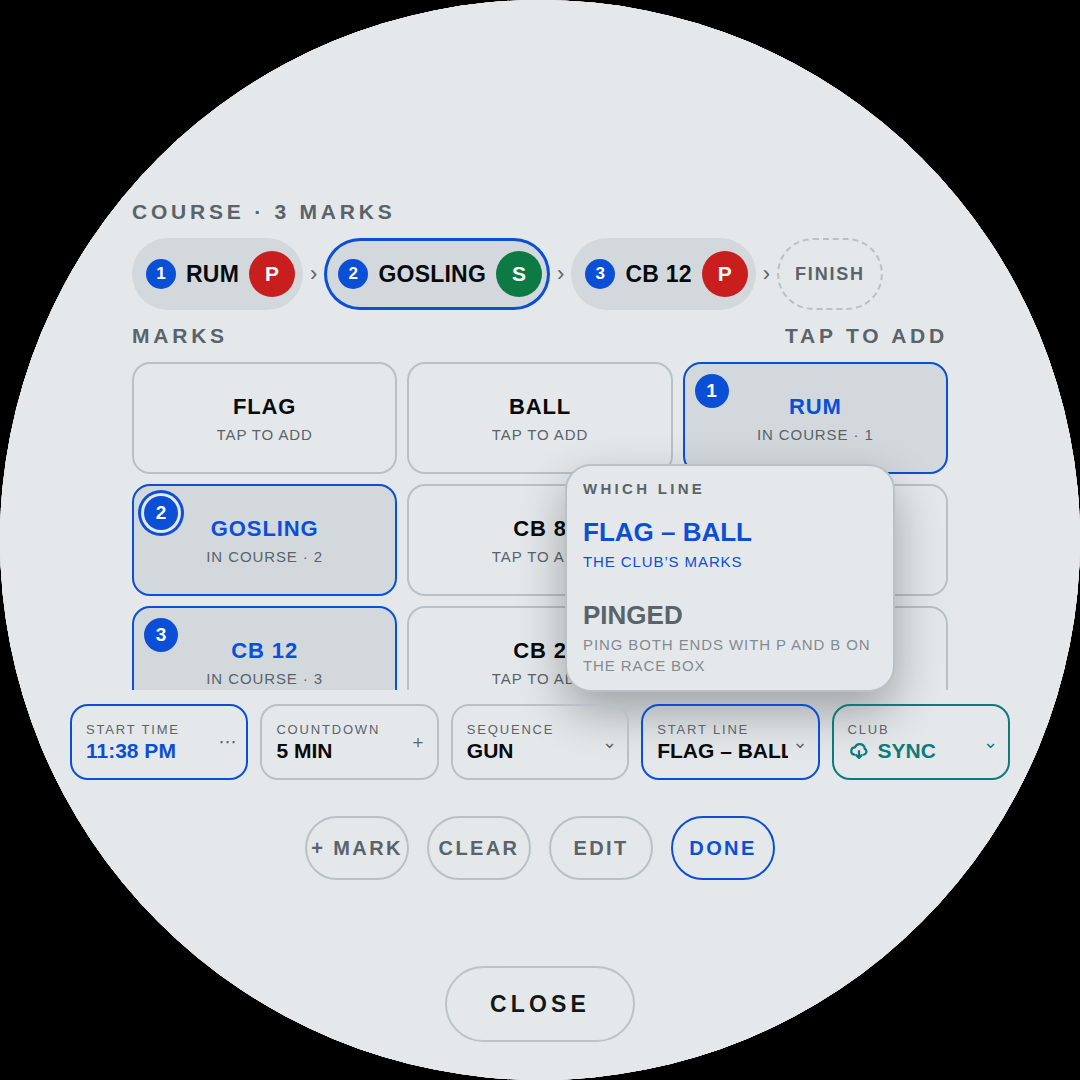
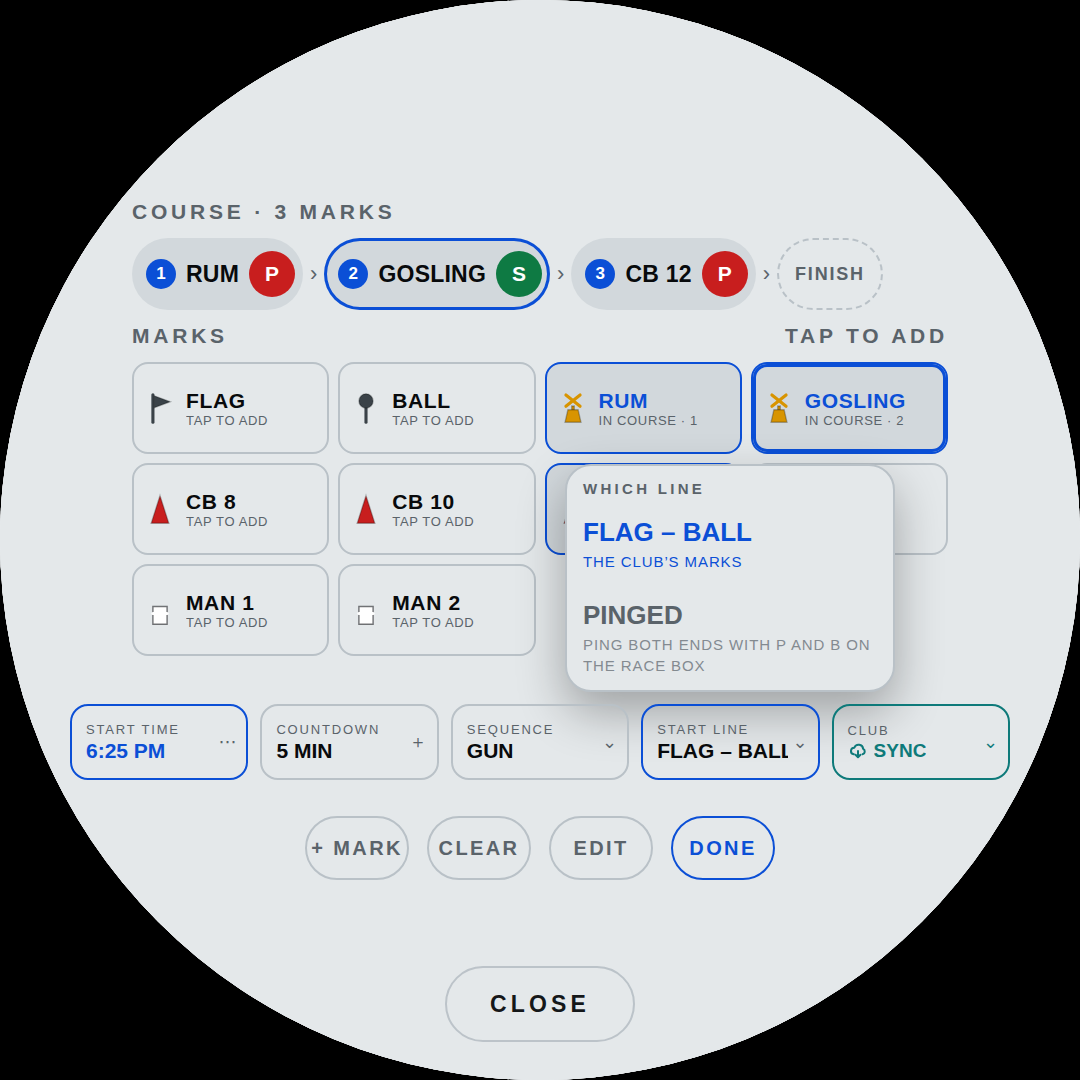
The marks are drawn as the buoys they are
A tile said RUM, and nothing about it said which of the things out there
RUM is. It is drawn now, as it looks on the water:

  yellow special with an X topmark   RUM, GOSLING - the club's own
                                     inflatables, marks of the COURSE,
                                     which is what the X says
  red nun                            CB 2, 8, 10, 12 - the channel
  white regulatory can               MAN 1, MAN 2 - the manatee zone
  a flag, and a ball on a staff      FLAG and BALL, which are what the
                                     Romance flag and its sail ball are
  the accent                         a mark of your own: no club drawing
                                     to copy

On the night theme all of them are the same red, as everything there is.
The shapes still tell them apart, which is what tells them apart out on
the water in the dark anyway.

The drawing says in a glance what a line of type was spelling out, so
the tiles are smaller: 92 tall and four across rather than 112 and
three, carrying the buoy, the short name and where it stands in the
course, and nothing else - the number badge went with them, since IN
COURSE 2 already says it. The ten club marks now fit without scrolling.
EDIT goes to three across, because there it swaps the course line for
the position, which is a long number, and adds the bin and the grip.

Also: the CLUB readout's value was running under its chevron at
[…]

diff --git a/confluence_helm.html b/confluence_helm.html
@@ -61,6 +61,9 @@ body{                                   /* DAY - built to beat sun   */
      buttons do, and it is the only tap here that can replace a course
      you are already sailing. */
   --club:#0E7A7A;
+  /* The marks as they are on the water. The yellow is knocked down from
+     a buoy's own yellow, which on a light panel in sun is a smear. */
+  --buoy-y:#D89400; --buoy-r:#C81E1E; --buoy-w:#FFFFFF;
   --w-huge:600; --w-val:600; --w-lbl:600;
 }
 body.dusk{
@@ -69,6 +72,7 @@ body.dusk{
   --warn:#FFB020; --alarm:#FF3B30; --panel:#15181B; --chip:#22272B;
   --port-g1:#C81E1E; --port-g2:#FF4D4D; --stbd-g1:#0E7A43; --stbd-g2:#24D17E;
   --club:#19A8A8;                       /* lifted off a dark panel     */
+  --buoy-y:#F5B72E; --buoy-r:#FF4D4D; --buoy-w:#E6EAEE;
   --w-huge:300; --w-val:300; --w-lbl:500;
 }
 body.night{
@@ -81,8 +85,11 @@ body.night{
      a fact the box states in words two lines below it. */
   --port-g1:#7A201C; --port-g2:#C8342E; --stbd-g1:#7A201C; --stbd-g2:#C8342E;
   /* And the club's colour is red too here, for the same reason - it goes
-     to an outline at night rather than a lit block. */
+     to an outline at night rather than a lit block. A yellow special and
+     a red nun are the same red at 2 a.m.; their SHAPES still differ,
+     which is what a buoy is told apart by in the dark anyway. */
   --club:#C8342E;
+  --buoy-y:#C8342E; --buoy-r:#C8342E; --buoy-w:#8A2723;
   --w-huge:300; --w-val:300; --w-lbl:500;
 }
 
@@ -916,39 +923,60 @@ text{font-variant-numeric:tabular-nums;dominant-baseline:middle}
 .cv-chip.ghost i{background:var(--club)}
 .cv-empty{font-size:20px;letter-spacing:.12em;color:var(--label)}
 .cv-arrow{color:var(--label);font-size:22px}
-/* The marks. 112 tall for the same reason the start pad's keys are: 45 px
-   on a 430 px phone, and 44 is the least a thumb should be asked to hit.
-   This is the one part of the view that scrolls. */
-.cv-grid{display:grid;grid-template-columns:repeat(3,1fr);gap:10px;width:100%;
+/* The marks: what the buoy looks like, what it is called, and where it
+   stands in the course. Four across and 92 tall - smaller than they
+   were, because a drawing of the buoy says in a glance what a line of
+   type was spelling out, and ten marks then fit without scrolling.
+   Edit mode goes to three across: it swaps the course line for the
+   position, which is a long number, and adds two controls. */
+.cv-grid{display:grid;grid-template-columns:repeat(4,1fr);gap:9px;width:100%;
   flex:1 1 auto;min-height:0;align-content:start;
   overflow-y:auto;overscroll-behavior:contain}
-.cv-tile{position:relative;height:112px;border-radius:18px;overflow:hidden;
+.cv-grid.edit{grid-template-columns:repeat(3,1fr)}
+.cv-tile{position:relative;height:92px;border-radius:16px;overflow:hidden;
   border:2px solid var(--hairline);background:none;font-family:var(--font);
-  display:flex;flex-direction:column;align-items:center;justify-content:center;gap:6px}
-.cv-tile b{font-size:22px;font-weight:600;letter-spacing:.04em;color:var(--ink)}
-.cv-tile s{text-decoration:none;font-size:15px;letter-spacing:.06em;color:var(--label);
-  max-width:100%;overflow:hidden;text-overflow:ellipsis;white-space:nowrap}
+  display:flex;align-items:center;gap:9px;padding:0 9px;text-align:left}
+.cv-tile .tx{min-width:0;flex:1}
+.cv-tile b{display:block;font-size:21px;font-weight:600;letter-spacing:.03em;
+  color:var(--ink);white-space:nowrap;overflow:hidden;text-overflow:ellipsis}
+.cv-tile s{display:block;text-decoration:none;font-size:13px;letter-spacing:.05em;
+  color:var(--label);white-space:nowrap;overflow:hidden;text-overflow:ellipsis}
 .cv-tile.in{border-color:var(--accent);background:var(--chip)}
 .cv-tile.in b{color:var(--accent)}
+/* The one being sailed to, ringed the way its chip in the strip is. */
+.cv-tile.next{box-shadow:inset 0 0 0 3px var(--accent)}
 /* A corrected mark says so in the accent: you are no longer looking at
    what the sailing instructions printed. */
 .cv-tile s.moved{color:var(--accent)}
-.cv-tile .seq{position:absolute;left:10px;top:10px;width:34px;height:34px;
-  border-radius:17px;background:var(--accent);color:#fff;font-size:19px;
-  font-weight:600;display:flex;align-items:center;justify-content:center}
-.cv-tile.next .seq{box-shadow:0 0 0 3px var(--panel),0 0 0 6px var(--accent)}
 /* edit mode: a bin on a mark of your own, a way back to the book on a
-   club mark you have corrected, and a band along the bottom to drag the
+   club mark you have corrected, and a band down the right to drag the
    tile by - which reorders the LIST, not the course. */
-.cv-tile .del{position:absolute;right:8px;top:8px;width:44px;height:44px;
-  border-radius:22px;border:2px solid var(--alarm);color:var(--alarm);font-size:20px;
+.cv-tile .del{flex:none;width:40px;height:40px;border-radius:20px;
+  border:2px solid var(--alarm);color:var(--alarm);font-size:18px;
   display:flex;align-items:center;justify-content:center}
-.cv-tile .del.undo{border-color:var(--accent);color:var(--accent);font-size:26px}
-.cv-tile .grip{position:absolute;left:0;right:0;bottom:0;height:28px;
-  display:flex;align-items:center;justify-content:center;font-size:24px;
+.cv-tile .del.undo{border-color:var(--accent);color:var(--accent);font-size:24px}
+.cv-tile .grip{flex:none;width:26px;align-self:stretch;margin-right:-9px;
+  display:flex;align-items:center;justify-content:center;font-size:22px;
   color:var(--label)}
-.cv-tile.edit{padding-bottom:22px}
 .cv-tile.lift{opacity:.45}
+/* ---- the buoys ----
+   Drawn as they are on the water, because that is how they are found:
+   the club's own marks are yellow specials with an X topmark, the
+   channel is red, the manatee zone's regulatory cans are white, and the
+   line's two ends are the Romance flag and its sail ball. At night they
+   are all the same red - that is the theme's whole point - and the
+   SHAPES still tell them apart, which is what tells them apart out
+   there in the dark anyway. */
+.bu{width:34px;height:34px;flex:none}
+.bu .bd{stroke:var(--ink);stroke-opacity:.28;stroke-width:1}
+.bu .ln{fill:none;stroke-width:2.2;stroke-linecap:round}
+/* White on a light panel is nothing without an edge. */
+.bu.w .bd{stroke-opacity:.55}
+.bu.y .bd{fill:var(--buoy-y)} .bu.y .ln{stroke:var(--buoy-y)}
+.bu.r .bd{fill:var(--buoy-r)} .bu.r .ln{stroke:var(--buoy-r)}
+.bu.w .bd{fill:var(--buoy-w)} .bu.w .ln{stroke:var(--buoy-w)}
+.bu.f .bd,.bu.b .bd{fill:var(--ink-dim)} .bu.f .ln,.bu.b .ln{stroke:var(--ink-dim)}
+.bu.o .bd{fill:var(--accent)} .bu.o .ln{stroke:var(--accent)}
 /* ---- the four settings, as readings ----
    Everything about the evening that is not the course itself, on one
    row under the marks, each saying what it is set to now: the sequence,
@@ -990,8 +1018,13 @@ text{font-variant-numeric:tabular-nums;dominant-baseline:middle}
    it is still the only one of them that reaches off the boat. */
 .cvr.club{border-color:var(--club)}
 .cvr.club b,.cvr.club u{color:var(--club)}
-.cvr.club svg{width:22px;height:22px;flex:none;fill:none;stroke:currentColor;
+/* The cloud costs the club's value 28 px that the other four spend on
+   type, so its type gives that back rather than running under the
+   chevron. */
+.cvr.club svg{width:20px;height:20px;flex:none;fill:none;stroke:currentColor;
   stroke-width:2.4;stroke-linecap:round;stroke-linejoin:round}
+.cvr.club b{font-size:19px;gap:6px}
+.cvr.club b span{min-width:0;overflow:hidden;text-overflow:ellipsis}
 /* ---- and the menu three of them open ----
    The same menu as the dial's readings picker, and for the same reasons:
    painted in --panel over a hairline so it reads as something in front,
@@ -3309,17 +3342,23 @@ function windShift(twd, awa){
    Gosling, so these are right to the metre. hdr is the short name a
    32 px cell header can carry; name is what the course sheet shows. */
 const DM=(d,m)=>d+m/60;
+/* `buoy` is what it looks like on the water, and the course sheet draws
+   it: y a yellow special with an X topmark - the club's inflatables,
+   which are marks of the course and not of the channel - r a red
+   channel buoy, w the white regulatory cans of the manatee zone, f the
+   Romance flag and b its sail ball, which are the two ends of the line.
+   A mark of your own gets the accent. */
 const MARKS=[
-  {id:'flag',   name:'ROMANCE FLAG',      hdr:'FLAG',   lat:DM(28,49.123), lon:-DM(81,15.874)},
-  {id:'ball',   name:'ROMANCE SAIL BALL', hdr:'BALL',   lat:DM(28,49.150), lon:-DM(81,15.721)},
-  {id:'rum',    name:'RUM MARK',          hdr:'RUM',    lat:DM(28,50.130), lon:-DM(81,15.840)},
-  {id:'gosling',name:'GOSLING MARK',      hdr:'GOSLING',lat:DM(28,49.800), lon:-DM(81,15.150)},
-  {id:'cb8',    name:'CHANNEL BUOY 8',    hdr:'CB 8',   lat:DM(28,49.881), lon:-DM(81,17.193)},
-  {id:'cb10',   name:'CHANNEL BUOY 10',   hdr:'CB 10',  lat:DM(28,49.501), lon:-DM(81,16.897)},
-  {id:'cb12',   name:'CHANNEL BUOY 12',   hdr:'CB 12',  lat:DM(28,49.284), lon:-DM(81,16.508)},
-  {id:'cb2',    name:'CHANNEL BUOY 2 · EAST', hdr:'CB 2', lat:DM(28,49.004), lon:-DM(81,14.566)},
-  {id:'man1',   name:'MANATEE MARK 1',    hdr:'MAN 1',  lat:DM(28,50.851), lon:-DM(81,14.916)},
-  {id:'man2',   name:'MANATEE MARK 2',    hdr:'MAN 2',  lat:DM(28,51.201), lon:-DM(81,15.212)},
+  {id:'flag',   name:'ROMANCE FLAG',      hdr:'FLAG',   buoy:'f', lat:DM(28,49.123), lon:-DM(81,15.874)},
+  {id:'ball',   name:'ROMANCE SAIL BALL', hdr:'BALL',   buoy:'b', lat:DM(28,49.150), lon:-DM(81,15.721)},
+  {id:'rum',    name:'RUM MARK',          hdr:'RUM',    buoy:'y', lat:DM(28,50.130), lon:-DM(81,15.840)},
+  {id:'gosling',name:'GOSLING MARK',      hdr:'GOSLING',buoy:'y', lat:DM(28,49.800), lon:-DM(81,15.150)},
+  {id:'cb8',    name:'CHANNEL BUOY 8',    hdr:'CB 8',   buoy:'r', lat:DM(28,49.881), lon:-DM(81,17.193)},
+  {id:'cb10',   name:'CHANNEL BUOY 10',   hdr:'CB 10',  buoy:'r', lat:DM(28,49.501), lon:-DM(81,16.897)},
+  {id:'cb12',   name:'CHANNEL BUOY 12',   hdr:'CB 12',  buoy:'r', lat:DM(28,49.284), lon:-DM(81,16.508)},
+  {id:'cb2',    name:'CHANNEL BUOY 2 · EAST', hdr:'CB 2', buoy:'r', lat:DM(28,49.004), lon:-DM(81,14.566)},
+  {id:'man1',   name:'MANATEE MARK 1',    hdr:'MAN 1',  buoy:'w', lat:DM(28,50.851), lon:-DM(81,14.916)},
+  {id:'man2',   name:'MANATEE MARK 2',    hdr:'MAN 2',  buoy:'w', lat:DM(28,51.201), lon:-DM(81,15.212)},
 ];
 const markOf=id=>MARKS.find(m=>m.id===id);
 /* Marks of your own, from the course sheet's NEW MARK: kept in browser
@@ -8602,6 +8641,40 @@ const closeLib=()=>{ hideQR(); $('t-lib').classList.remove('on'); $('t-course').
    not a mark, and the grid scrolls. */
 let courseEdit=false;
 
+/* ---- the buoys -------------------------------------------------------
+   One drawing each, in a 24 box standing on a waterline at y=21, so they
+   line up with each other in a column of tiles. The colour is the
+   theme's - see --buoy-y and its neighbours - and the class on the svg
+   picks it; what is drawn here is the SHAPE, which is what still tells
+   them apart on the night theme where all of them are red.
+
+   .bd is the body, filled. .ln is drawn in outline: a topmark, a staff,
+   a flag's fly. */
+const BUOY={
+  /* A special mark: pillar, X topmark. A mark of the COURSE rather than
+     of the channel, which is exactly what the club's inflatables are,
+     and the X is the shape that says so. */
+  y:'<path class="ln" d="M7 2.8l10 8M17 2.8l-10 8"/>'
+   +'<path class="bd" d="M11.1 10.6h1.8v2.6h-1.8z"/>'
+   +'<path class="bd" d="M8.4 13.2h7.2L17.6 22H6.4z"/>',
+  /* A red nun, the cone the even-numbered side of a channel is. */
+  r:'<path class="bd" d="M12 2.6L18.2 22H5.8z"/>',
+  /* A regulatory can - the white ones round the manatee zone. */
+  w:'<path class="bd" d="M7 9.5h10V22H7z"/>'
+   +'<path class="ln" d="M7 14.5h10"/>',
+  /* The Romance flag, on its staff. */
+  f:'<path class="ln" d="M7 2.6V22"/>'
+   +'<path class="bd" d="M7.9 3.4L19.2 7.6 7.9 11.8z"/>',
+  /* And its sail ball, which is a ball on a staff. */
+  b:'<path class="ln" d="M12 11V22"/>'
+   +'<circle class="bd" cx="12" cy="7" r="5"/>',
+  /* One of your own: no club drawing to copy, so it wears the accent. */
+  o:'<path class="ln" d="M12 4.5v6"/>'
+   +'<path class="bd" d="M8.2 10.8h7.6L17.6 22H6.4z"/>'
+};
+const buoySvg=m=>{ const k=BUOY[m.buoy] ? m.buoy : 'o';
+  return '<svg class="bu '+k+'" viewBox="0 0 24 24">'+BUOY[k]+'</svg>'; };
+
 /* A cloud with the course coming down out of it. Circling arrows would
    say 'sync' too, but they say it about two things kept level with each
    other - and this only ever comes one way, off the site and onto the
@@ -8642,6 +8715,7 @@ function renderCourse(){
     : '<span class="cv-empty">NOTHING YET · TAP A MARK, OR SYNC THE CLUB’S</span>';
 
   wText('cv-hint', courseEdit ? 'TAP TO CORRECT · DRAG TO REORDER' : 'TAP TO ADD');
+  wCls('course-list','edit', courseEdit);
   const tile=m=>{
     const i=COURSE.marks.indexOf(m.id), moved=isMoved(m.id);
     const sub = courseEdit ? posDM(m)
@@ -8652,9 +8726,9 @@ function renderCourse(){
       : isUserMark(m.id) ? '<div class="del">✕</div>'
       : moved            ? '<div class="del undo">↺</div>' : '';
     return '<button class="cv-tile'+(i>=0?' in':'')+(i===COURSE.next?' next':'')
-      +(courseEdit?' edit':'')+'" data-mark="'+m.id+'">'
-      +(i>=0?'<div class="seq">'+(i+1)+'</div>':'')
-      +'<b>'+esc(m.hdr)+'</b><s'+(moved?' class="moved"':'')+'>'+esc(sub)+'</s>'
+      +'" data-mark="'+m.id+'">'+buoySvg(m)
+      +'<div class="tx"><b>'+esc(m.hdr)+'</b>'
+      +'<s'+(moved?' class="moved"':'')+'>'+esc(sub)+'</s></div>'
       +badge+(courseEdit?'<div class="grip">≡</div>':'')+'</button>'; };
   box.innerHTML=MARKS.map(tile).join('');
 

diff --git a/docs/readings.md b/docs/readings.md
@@ -476,13 +476,32 @@ The side shows on the map by the mark's number and in the box as you
 close on it. Two buttons on every chip would have made the strip half
 again as long, and it is a choice between exactly two things.
 
-The tile says where each mark stands in the course, and in **EDIT** it
-says its position instead, as a chart writes it — `28 49.284N ·
-081 16.508W`. The hemisphere is a letter and the degrees are padded,
-because nothing read at arm's length should turn on spotting a minus
-sign at 15 px. The club's marks and your own read the same way. Tiles
-carry the short name — the one the cell headers and the RACE box use,
-where a name has to fit in 32 px.
+**Each tile is the buoy, its short name, and where it stands in the
+course** — and the buoy is drawn as it looks on the water, because that
+is how it is found:
+
+| | |
+|---|---|
+| **yellow special, X topmark** | `RUM`, `GOSLING` — the club's own inflatables. Marks of the *course*, which is what the X says |
+| **red nun** | `CB 2`, `CB 8`, `CB 10`, `CB 12` — the channel |
+| **white can** | `MAN 1`, `MAN 2` — the manatee zone's regulatory marks |
+| **flag** and **ball** | `FLAG` and `BALL`: the Romance flag and its sail ball, which are the two ends of the line |
+| **the accent** | a mark of your own — there is no club drawing to copy |
+
+On the **night** theme every one of them is the same red, as everything
+there is; the shapes still tell them apart, which is what tells them
+apart out on the water in the dark anyway.
+
+The drawing says in a glance what a line of type was spelling out, so
+the tiles are smaller than they were — four across, and the ten club
+marks fit without scrolling. Tiles carry the short name, the one the
+cell headers and the RACE box use, where a name has to fit in 32 px.
+
+In **EDIT** the tile says the mark's position instead of its place in
+the course, as a chart writes it — `28 49.284N · 081 16.508W` — and the
+grid goes to three across to fit it. The hemisphere is a letter and the
+degrees are padded, because nothing read at arm's length should turn on
+spotting a minus sign at 13 px.
 
 ### The five settings
 
@@ -592,11 +611,10 @@ readings like the club's — and adds it to the course.
 ![The course in edit mode](img/course-edit.png)
 
 **EDIT** is for the list itself, not the course — the course's order is
-the strip, set by tapping. It puts a band along the bottom of every
-tile: drag it onto another tile and the mark takes that place in the
-grid, the club's marks included, and the order is kept. A mark of your
-own gets a ✕ in edit mode, which removes it from the course and from
-storage.
+the strip, set by tapping. It puts a band down the right of every tile:
+drag it onto another tile and the mark takes that place in the grid, the
+club's marks included, and the order is kept. A mark of your own gets a
+✕ in edit mode, which removes it from the course and from storage.
 
 **Tapping a mark in edit mode opens it**, with its name and position
 already in the fields. Outside edit mode a tap still adds and removes
